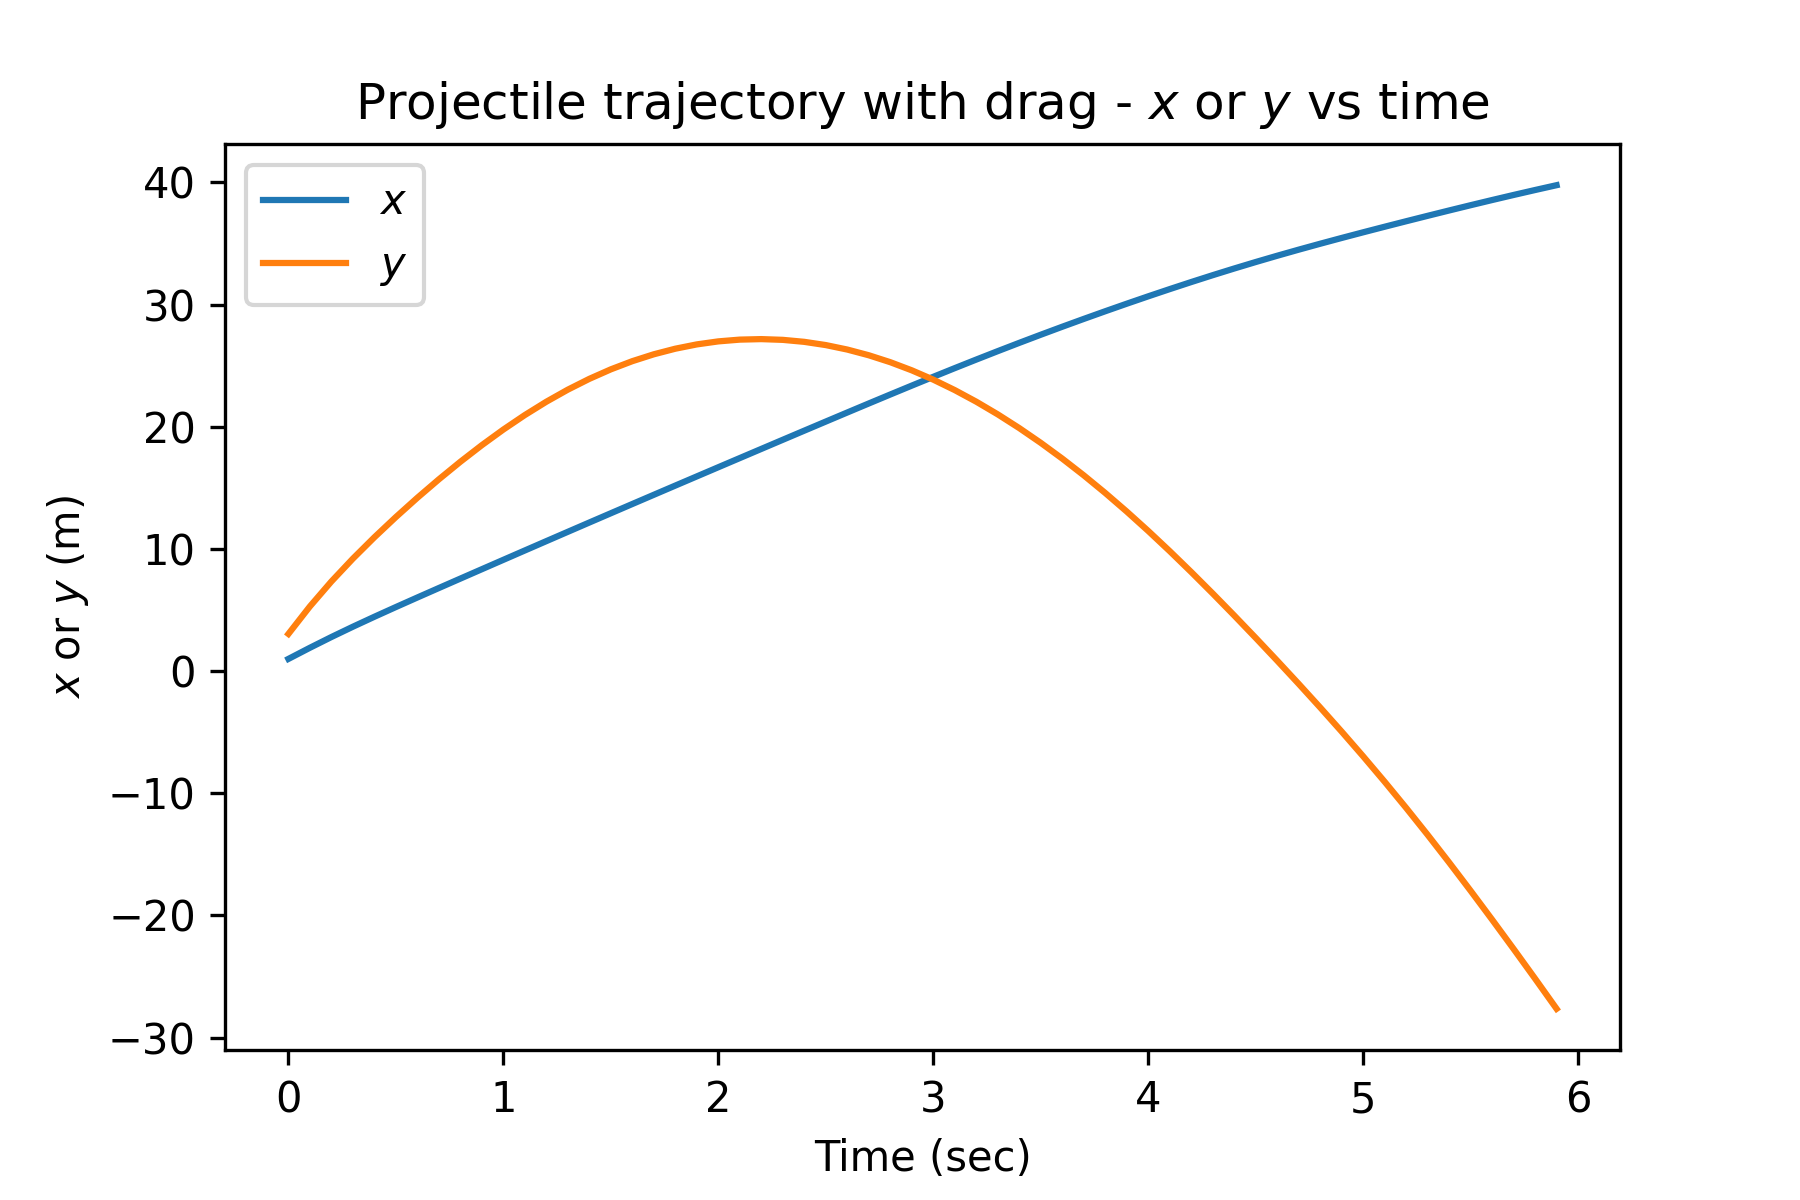
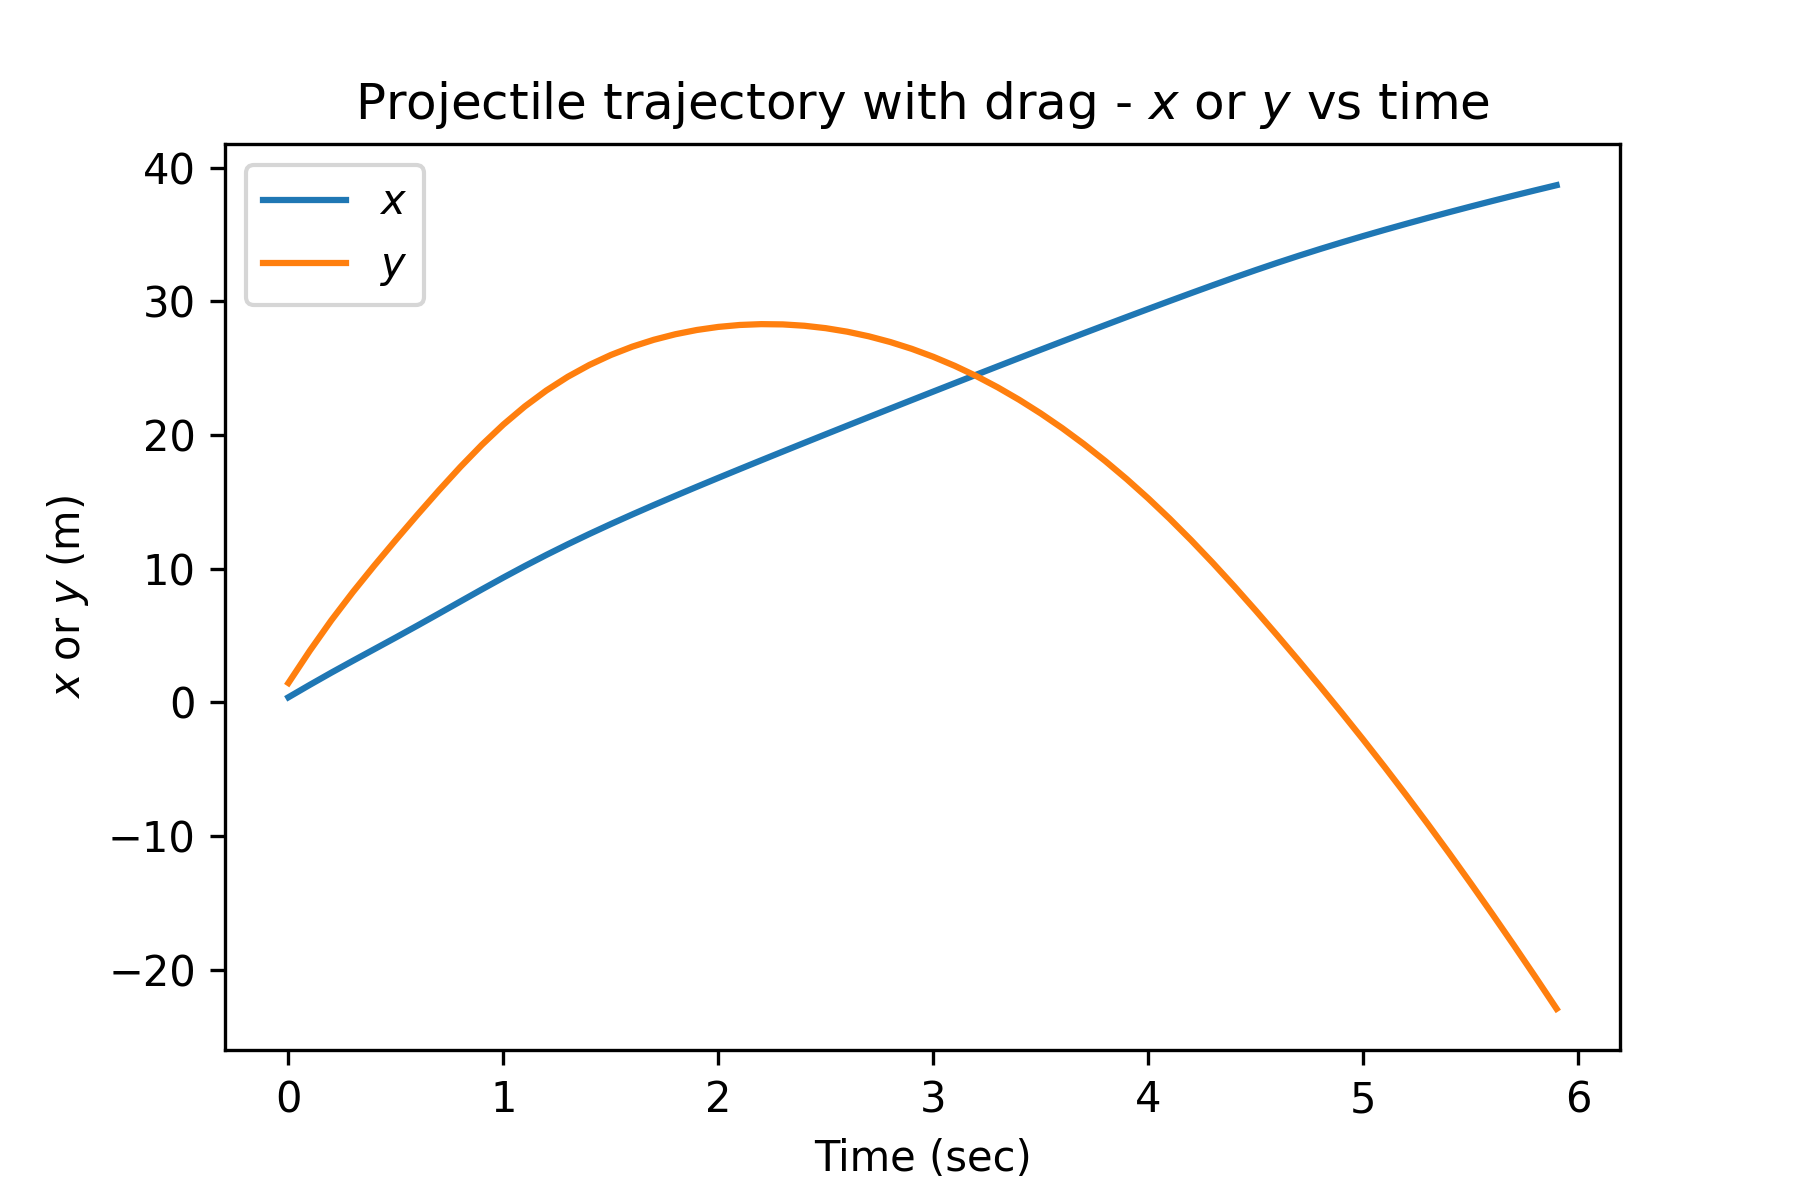
updates

diff --git a/vxvyplot.py b/vxvyplot.py
@@ -4,7 +4,7 @@ import pandas as pd
 
 
 #df = pd.read_csv("trajectory.csv")
-df = pd.read_csv("Outputs/results_446.csv")
+df = pd.read_csv("Outputs/results_666.csv")
 
 plt.plot(df['t'],df['vx'],label="$v_x$")
 plt.plot(df['t'],df['vy'],label="$v_y$")

diff --git a/readme.md b/readme.md
@@ -338,6 +338,6 @@ With a neural network trained on a projectile, we now have a model we may interr
 
 
 # References
- * [https://www.youtube.com/watch?v=IDIv92Z6Qvc](https://www.youtube.com/watch?v=IDIv92Z6Qvc)
+ * [ETH Zürich DLSC: Physics-Informed Neural Networks - Applications](https://www.youtube.com/watch?v=IDIv92Z6Qvc)
 
 * [Wang, et.al.](https://arxiv.org/pdf/2308.08468)
